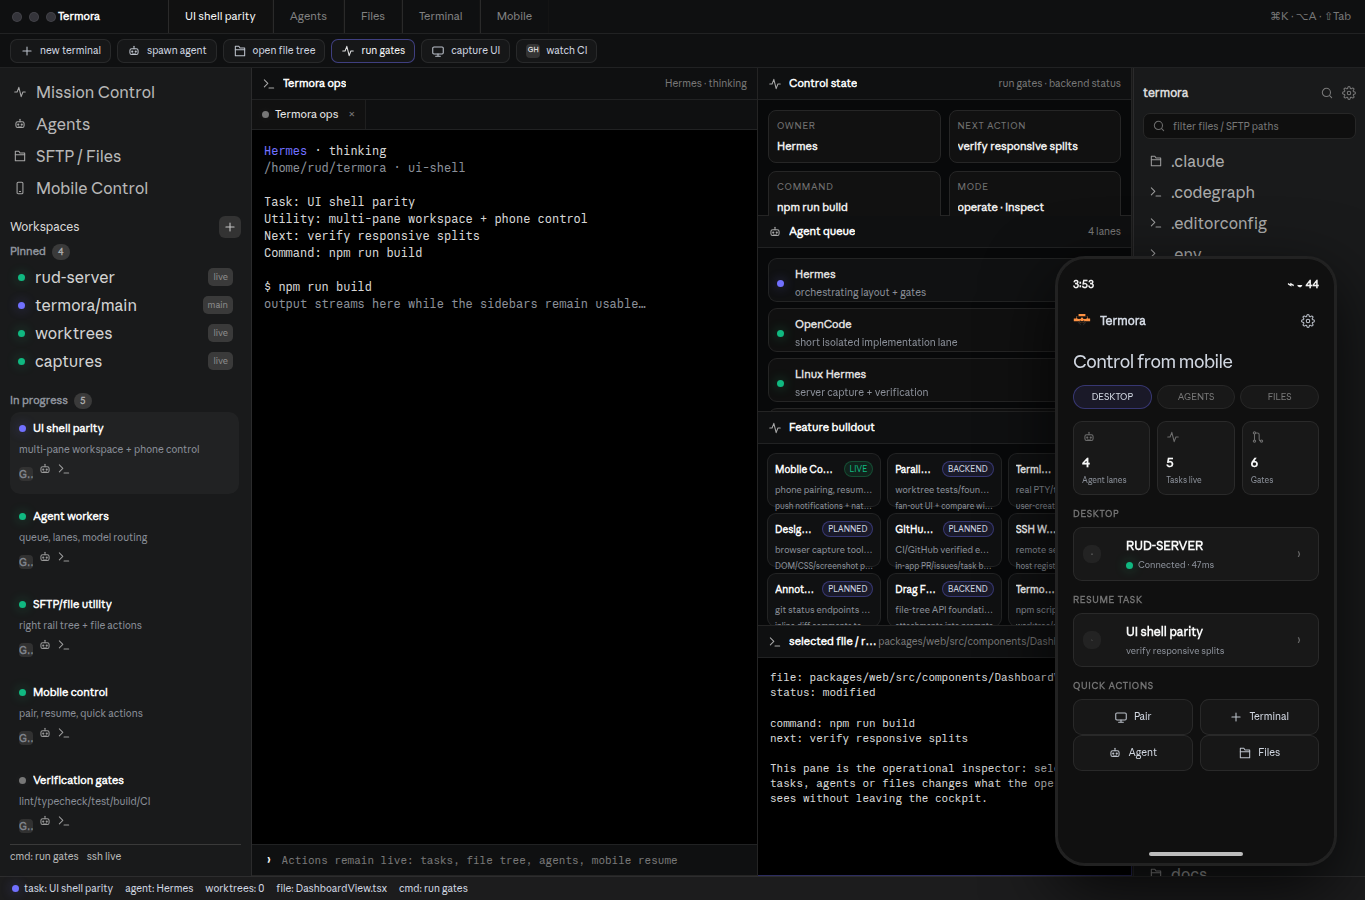
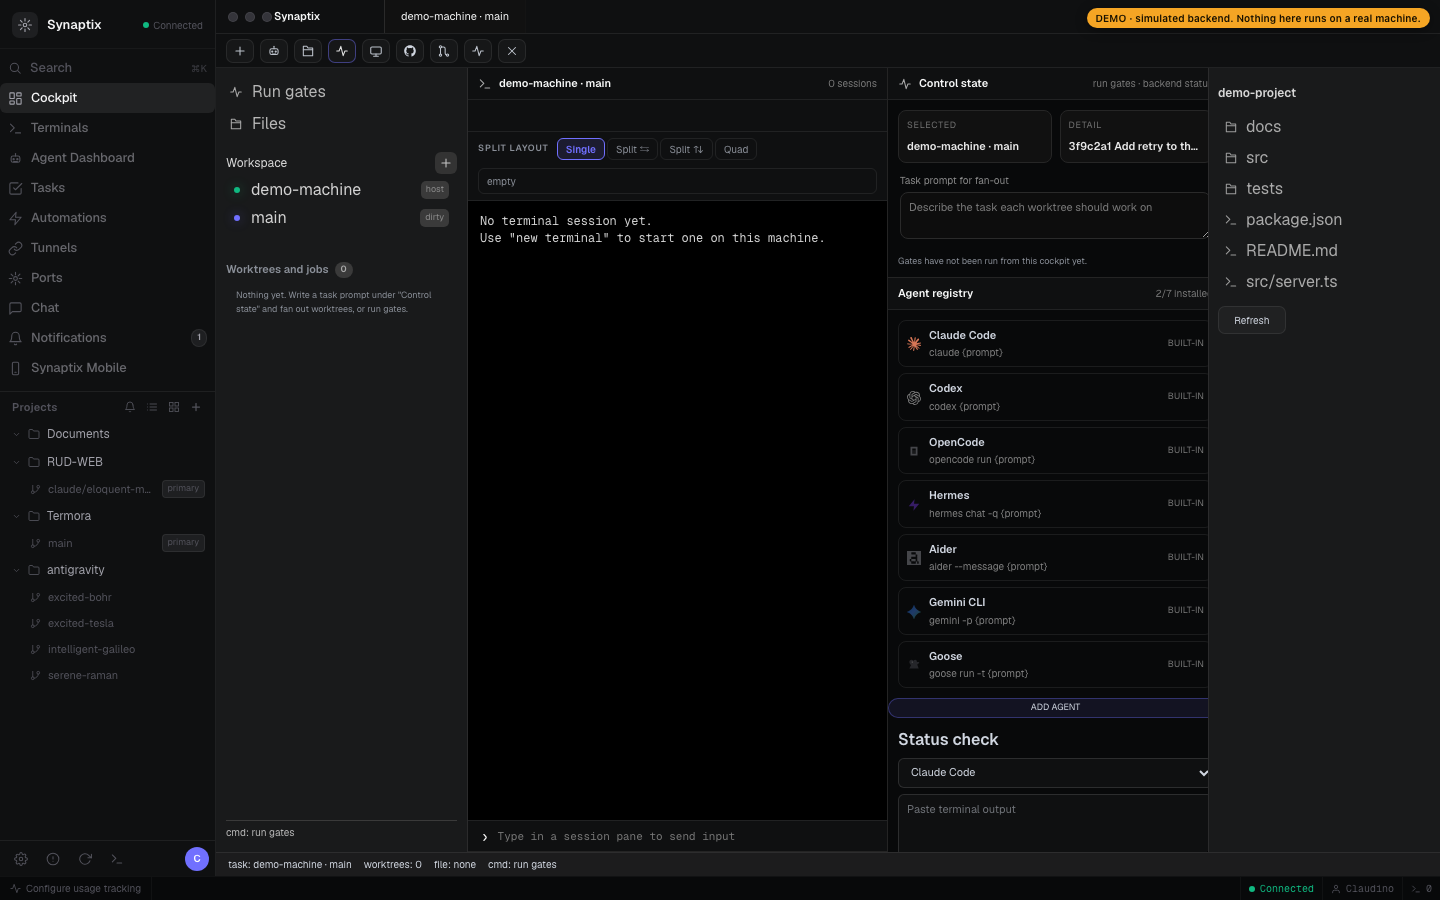
docs: replace Termora screenshots with fresh Synaptix UI captures
- docs/images/cockpit-desktop-v2.png: new 1440×900 capture showing
  Synaptix cockpit with correct branding, agent registry panel, and
  all agent icons (Claude Code, Codex, OpenCode, Hermes, Aider, Gemini, Goose)
- docs/images/mobile-companion-v2.png: new 390×844 capture showing
  Synaptix mobile responsive view with bottom nav bar
- README.md: restore screenshot table pointing to the new images
- scripts/check-app-scaffold.mjs: restore contract to verify both
  cockpit-desktop-v2.png and mobile-companion-v2.png are referenced

diff --git a/README.md b/README.md
@@ -62,7 +62,12 @@ A local-first, installable cockpit for Mac/Linux machines: real PTYs, multi-sess
 
 <div align="center">
 
-![Synaptix cockpit walkthrough](docs/images/claude-code-demo.gif)
+<table>
+<tr>
+<td align="center"><img src="docs/images/cockpit-desktop-v2.png" width="660" /><br /><sub><b>Desktop cockpit</b></sub></td>
+<td align="center"><img src="docs/images/mobile-companion-v2.png" width="195" /><br /><sub><b>Mobile companion</b></sub></td>
+</tr>
+</table>
 
 </div>
 
